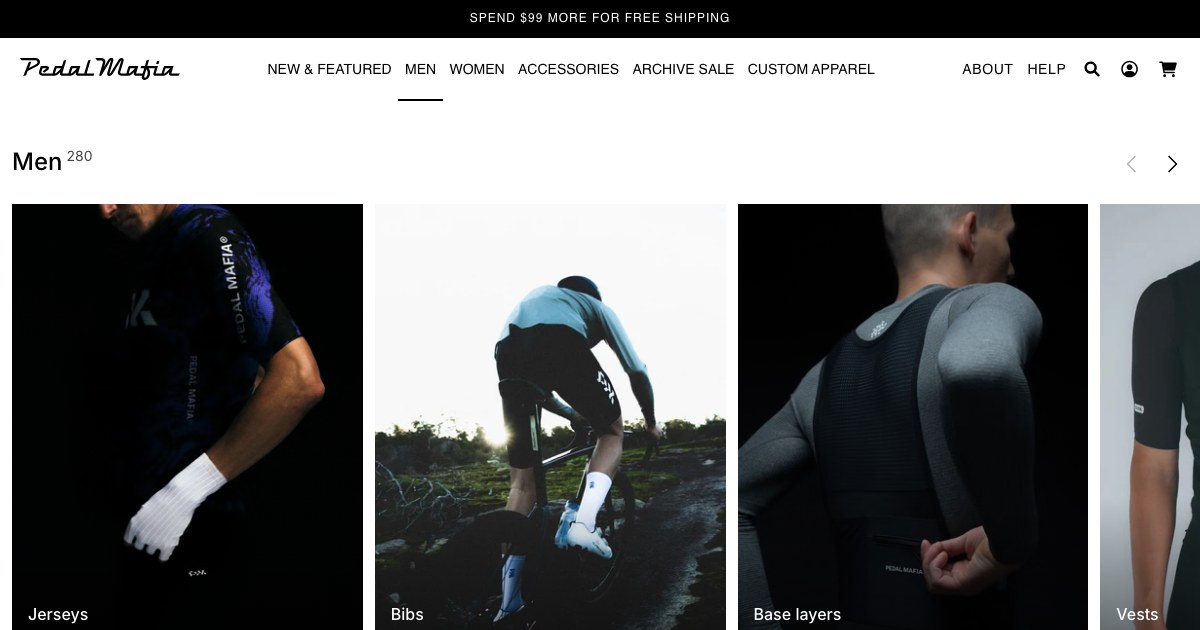
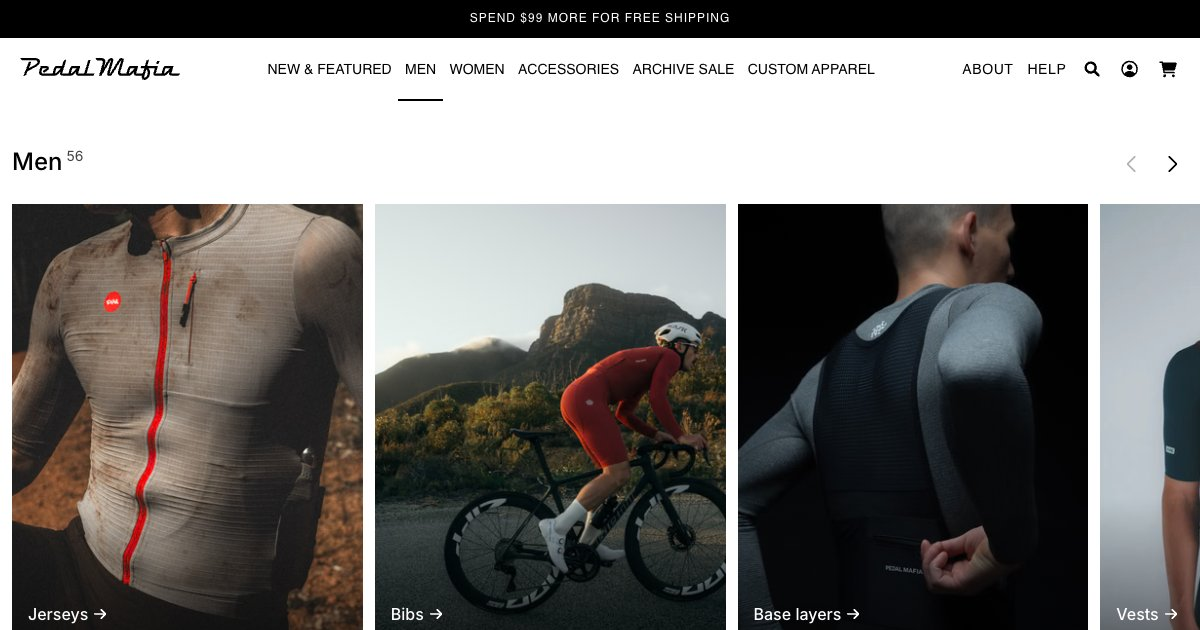
Add share image and live link

diff --git a/index.html b/index.html
@@ -12,7 +12,7 @@
   <meta property="og:image" content="https://christopher-tds.github.io/pm-department-grid-prototype/assets/og-image.jpg">
   <meta property="og:image:width" content="1200">
   <meta property="og:image:height" content="630">
-  <meta property="og:image:alt" content="The Men's department page with the category carousel: Jerseys, Bibs, Base layers and Vests">
+  <meta property="og:image:alt" content="The Men's department grid page: 56 products and the category carousel with Jerseys, Bibs, Base layers and Vests">
   <meta name="twitter:card" content="summary_large_image">
   <link rel="preconnect" href="https://fonts.googleapis.com">
   <link rel="preconnect" href="https://fonts.gstatic.com" crossorigin>

diff --git a/README.md b/README.md
@@ -5,6 +5,8 @@ but swaps the per-category sections for one mixed product grid, with the toolbar
 card from the Men's Jerseys PLP prototype (`pm-plp-prototype`). The demo is that you start on "all"
 and can narrow it down to what you're after. Built on the live US catalog.
 
+Live at https://christopher-tds.github.io/pm-department-grid-prototype/ (GitHub Pages from `main`).
+
 ## What it does
 
 - **Header:** "Men" with the number of products in the grid, then the category carousel: one card
@@ -54,5 +56,4 @@ the browser from that data, so a refresh updates it too. Needs Pillow (`pip inst
 - Product images load from Shopify's CDN; nothing is copied into the repo.
 - Some products live in two collections (a cap in both Headwear and Cycling caps), so the category
   counts add up to a little more than 56.
-- `assets/og-image.jpg` is still the department prototype's share image; regenerate it before
-  sharing the link.
+- The share image (`assets/og-image.jpg`, 1200 × 630) is a capture of the page top with `?clean=1`.
